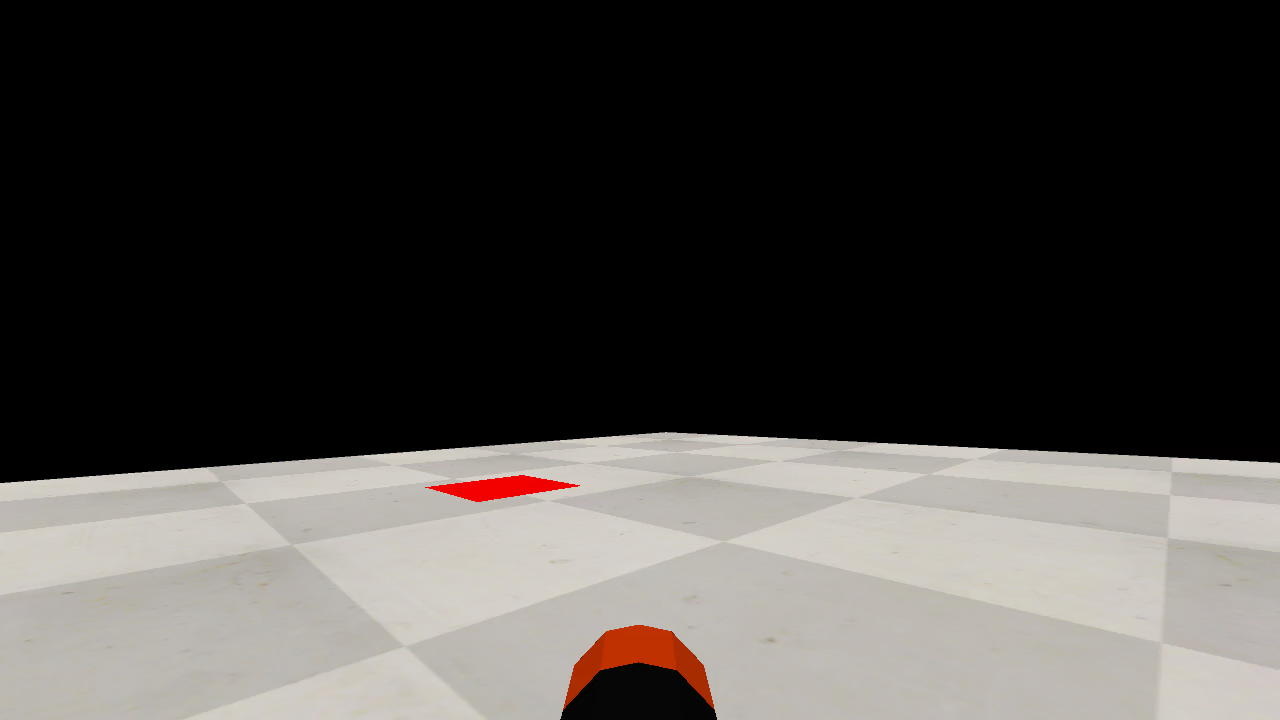
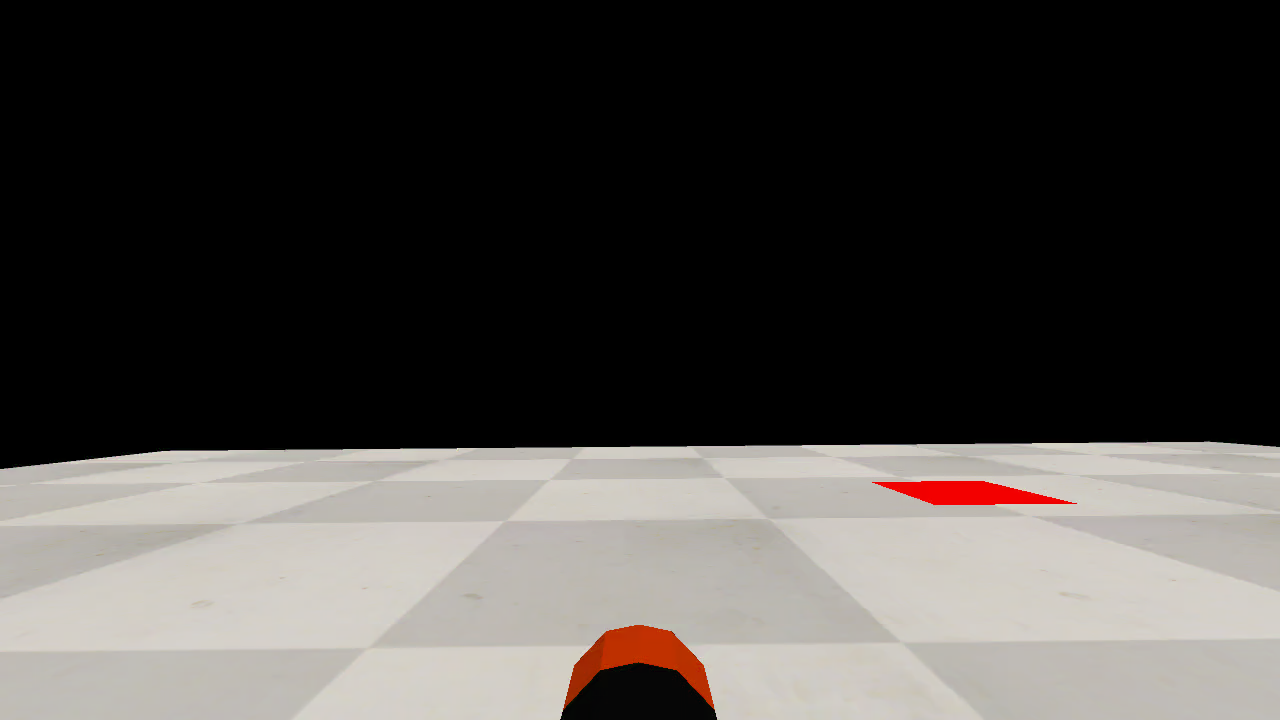
created ros package

diff --git a/camera_example.py b/camera_example.py
@@ -15,7 +15,8 @@ if IP:
     robomaster.config.LOCAL_IP_STR = IP
     robomaster.config.ROBOT_IP_STR = IP
 
-def get_image(robot, filename="testimage"):
+def get_image(robot, filename="testimage", resolution="720"):
+    robot.camera.start_video_stream(display=False, resolution=f"{resolution}p")
     try:
         frame = robot.camera.read_cv2_image()
         print('Frames have shape', frame.shape)
@@ -23,7 +24,8 @@ def get_image(robot, filename="testimage"):
         print(f"image {filename} written")
         #cv2.imshow('image', frame)
         
-        cv2.waitKey(1)
+        #cv2.waitKey(1)
+        robot.camera.stop_video_stream()
         return True, frame
     except Exception as e:
         print(f"failed {e}")
@@ -41,26 +43,24 @@ def get_images(resolution=720, log_level="WARN", ):
     print('Camera configuration', vars(ep_robot.camera.conf))
     print('Camera address', ep_robot.camera.video_stream_addr)
     print('Camera resolution', f"{resolution}p")
-    ep_robot.camera.start_video_stream(display=False, resolution=f"{resolution}p")
+    
 
-    while not get_image(ep_robot, "straight")[0]:
+    while not get_image(ep_robot, "straight", 720)[0]:
         time.sleep(1)
     print("move gimbal")
     ep_robot.gimbal.moveto(yaw=45, pitch=0, yaw_speed=90, pitch_speed=30).wait_for_completed()
     print("moved gimbal")
-    time.sleep(1)
-
-    ep_robot.camera.stop_video_stream()
-
-    ep_robot.camera.start_video_stream(display=False, resolution=f"{resolution}p")
+    #time.sleep(1)
 
 
-    while not get_image(ep_robot, "right_gimbal")[0]:
+    while not get_image(ep_robot, "right_gimbal", 720)[0]:
         time.sleep(1)
     print("finished")
 
-    ep_robot.camera.stop_video_stream()
-    ep_robot.close()
+    
+    #print("closed video")
+    #ep_robot.close()
+    print("closed robot")
 
 
 if __name__ == '__main__':

diff --git a/camera.py b/camera.py
@@ -1,0 +1,58 @@
+# type: ignore
+
+import time
+import patch_ftp
+import robomaster.config  # noqa
+from robomaster import robot, logger, logging  # noqa
+import robomaster.conn
+import robomaster.camera
+import cv2
+import argparse
+
+# IP = "127.0.0.1"
+IP = ""
+if IP:
+    robomaster.config.LOCAL_IP_STR = IP
+    robomaster.config.ROBOT_IP_STR = IP
+
+
+def main():
+    parser = argparse.ArgumentParser(description='Test the camera SDK')
+    parser.add_argument('--resolution', default=360, type=int,
+                        help='video resolution {360, 540, 720}')
+    parser.add_argument('--log_level', default="WARN", type=str,
+                        help='log level {DEBUG, INFO, WARN, ERROR}')
+    parser.add_argument('--frames', default=100, type=int,
+                        help='Number of frames to acquire and display. Set to negative for infinite')
+
+    args = parser.parse_args()
+    logger.setLevel(args.log_level)
+    ep_robot = robot.Robot()
+    ep_robot.initialize(conn_type="sta")
+    time.sleep(1)
+
+    print('Camera version', ep_robot.camera.get_version())
+    print('Camera configuration', vars(ep_robot.camera.conf))
+    print('Camera address', ep_robot.camera.video_stream_addr)
+    print('Camera resolution', f"{args.resolution}p")
+    ep_robot.camera.start_video_stream(display=False, resolution=f"{args.resolution}p")
+    i = 0
+    while True:
+        try:
+            frame = ep_robot.camera.read_cv2_image()
+            if i == 0:
+                print('Frames have shape', frame.shape)
+            cv2.imshow('image', frame)
+            cv2.waitKey(1)
+        except:
+            time.sleep(0.01)
+        i += 1
+        if args.frames > 0 and args.frames <= i:
+            break
+
+    ep_robot.camera.stop_video_stream()
+    ep_robot.close()
+
+
+if __name__ == '__main__':
+    main()

diff --git a/test/test_copyright.py b/test/test_copyright.py
@@ -1,0 +1,25 @@
+# Copyright 2015 Open Source Robotics Foundation, Inc.
+#
+# Licensed under the Apache License, Version 2.0 (the "License");
+# you may not use this file except in compliance with the License.
+# You may obtain a copy of the License at
+#
+#     http://www.apache.org/licenses/LICENSE-2.0
+#
+# Unless required by applicable law or agreed to in writing, software
+# distributed under the License is distributed on an "AS IS" BASIS,
+# WITHOUT WARRANTIES OR CONDITIONS OF ANY KIND, either express or implied.
+# See the License for the specific language governing permissions and
+# limitations under the License.
+
+from ament_copyright.main import main
+import pytest
+
+
+# Remove the `skip` decorator once the source file(s) have a copyright header
+@pytest.mark.skip(reason='No copyright header has been placed in the generated source file.')
+@pytest.mark.copyright
+@pytest.mark.linter
+def test_copyright():
+    rc = main(argv=['.', 'test'])
+    assert rc == 0, 'Found errors'

diff --git a/test/test_flake8.py b/test/test_flake8.py
@@ -1,0 +1,25 @@
+# Copyright 2017 Open Source Robotics Foundation, Inc.
+#
+# Licensed under the Apache License, Version 2.0 (the "License");
+# you may not use this file except in compliance with the License.
+# You may obtain a copy of the License at
+#
+#     http://www.apache.org/licenses/LICENSE-2.0
+#
+# Unless required by applicable law or agreed to in writing, software
+# distributed under the License is distributed on an "AS IS" BASIS,
+# WITHOUT WARRANTIES OR CONDITIONS OF ANY KIND, either express or implied.
+# See the License for the specific language governing permissions and
+# limitations under the License.
+
+from ament_flake8.main import main_with_errors
+import pytest
+
+
+@pytest.mark.flake8
+@pytest.mark.linter
+def test_flake8():
+    rc, errors = main_with_errors(argv=[])
+    assert rc == 0, \
+        'Found %d code style errors / warnings:\n' % len(errors) + \
+        '\n'.join(errors)

diff --git a/test/test_pep257.py b/test/test_pep257.py
@@ -1,0 +1,23 @@
+# Copyright 2015 Open Source Robotics Foundation, Inc.
+#
+# Licensed under the Apache License, Version 2.0 (the "License");
+# you may not use this file except in compliance with the License.
+# You may obtain a copy of the License at
+#
+#     http://www.apache.org/licenses/LICENSE-2.0
+#
+# Unless required by applicable law or agreed to in writing, software
+# distributed under the License is distributed on an "AS IS" BASIS,
+# WITHOUT WARRANTIES OR CONDITIONS OF ANY KIND, either express or implied.
+# See the License for the specific language governing permissions and
+# limitations under the License.
+
+from ament_pep257.main import main
+import pytest
+
+
+@pytest.mark.linter
+@pytest.mark.pep257
+def test_pep257():
+    rc = main(argv=['.', 'test'])
+    assert rc == 0, 'Found code style errors / warnings'

diff --git a/setup.py b/setup.py
@@ -1,0 +1,25 @@
+from setuptools import find_packages, setup
+
+package_name = 'robotics_final_project'
+
+setup(
+    name=package_name,
+    version='0.0.0',
+    packages=find_packages(exclude=['test']),
+    data_files=[
+        ('share/ament_index/resource_index/packages',
+            ['resource/' + package_name]),
+        ('share/' + package_name, ['package.xml']),
+    ],
+    install_requires=['setuptools'],
+    zip_safe=True,
+    maintainer='robotics',
+    maintainer_email='mg.marco@hotmail.ch',
+    description='TODO: Package description',
+    license='TODO: License declaration',
+    tests_require=['pytest'],
+    entry_points={
+        'console_scripts': [
+        ],
+    },
+)
